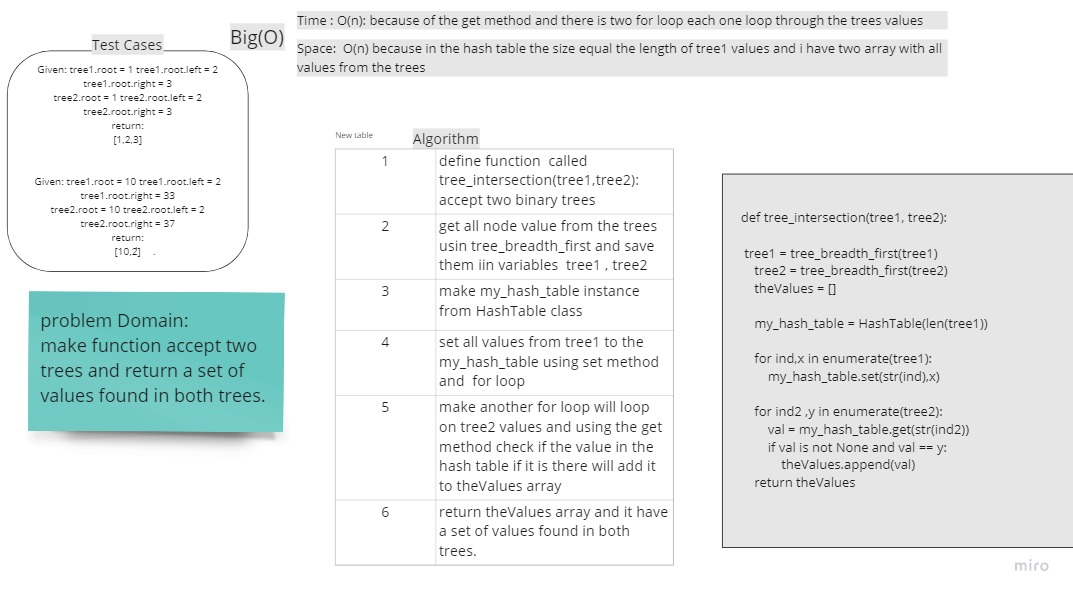
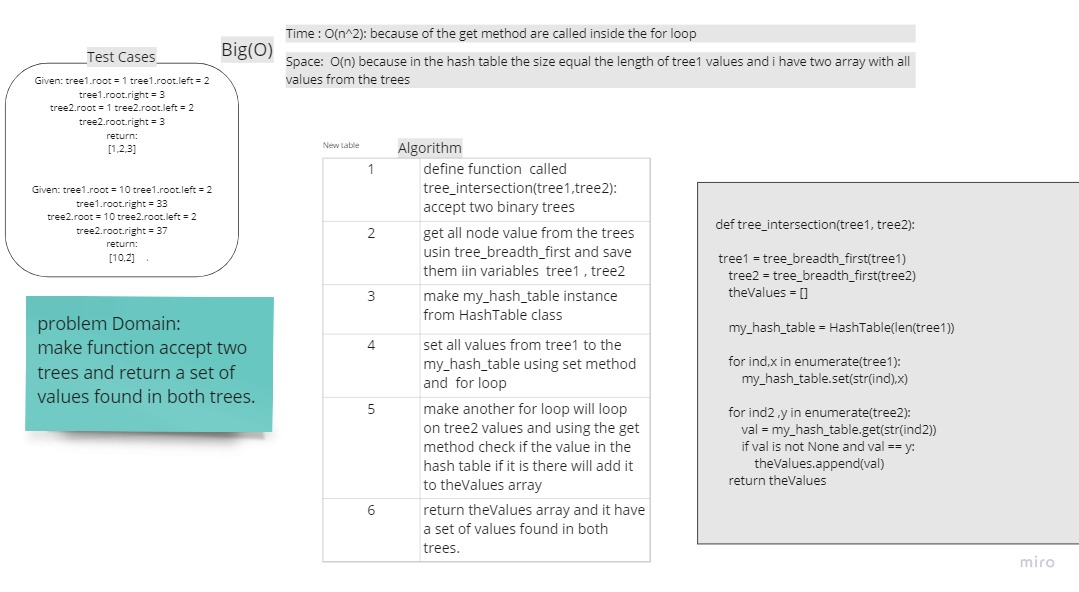
solve complexity

diff --git a/tree_intersection/tree_intersection.py b/tree_intersection/tree_intersection.py
@@ -14,22 +14,20 @@ class Tree:
 
 
 def tree_intersection(tree1, tree2):
-
     tree1 = tree_breadth_first(tree1)
     tree2 = tree_breadth_first(tree2)
     theValues = []
 
     my_hash_table = HashTable(len(tree1))
 
-    for ind,x in enumerate(tree1):
-        my_hash_table.set(str(ind),x)
+    for ind, x in enumerate(tree1):
+        my_hash_table.set(str(ind), x)
 
-    for ind2 ,y in enumerate(tree2):
+    for ind2, y in enumerate(tree2):
         val = my_hash_table.get(str(ind2))
         if val is not None and val == y:
             theValues.append(val)
     return theValues
-
 
 
 def tree_breadth_first(tree):
@@ -83,7 +81,6 @@ if __name__ == '__main__':
     Tree2.root.right.right.right = TreeNode(1001)
 
     tree2 = Tree2
-
 
     print(tree_breadth_first(tree1))
     print(tree_intersection(tree1, tree2))

diff --git a/tree_intersection/README.md b/tree_intersection/README.md
@@ -13,7 +13,7 @@ make function accept two trees and return a set of values found in both trees us
 
 What i did exactly is collecting the values from trees then but them in a hash table using set method and the keys was order to make less time complexity on the best and average case
 
-Time : O(n): because of the get method and there is two for loop each one loop through the trees values
+Time : O(n^2): because of the get method are called inside the for loop 
 
 Space:  O(n) because in the hash table the size equal the length of tree1 values and i have two array with all values from the trees
 
